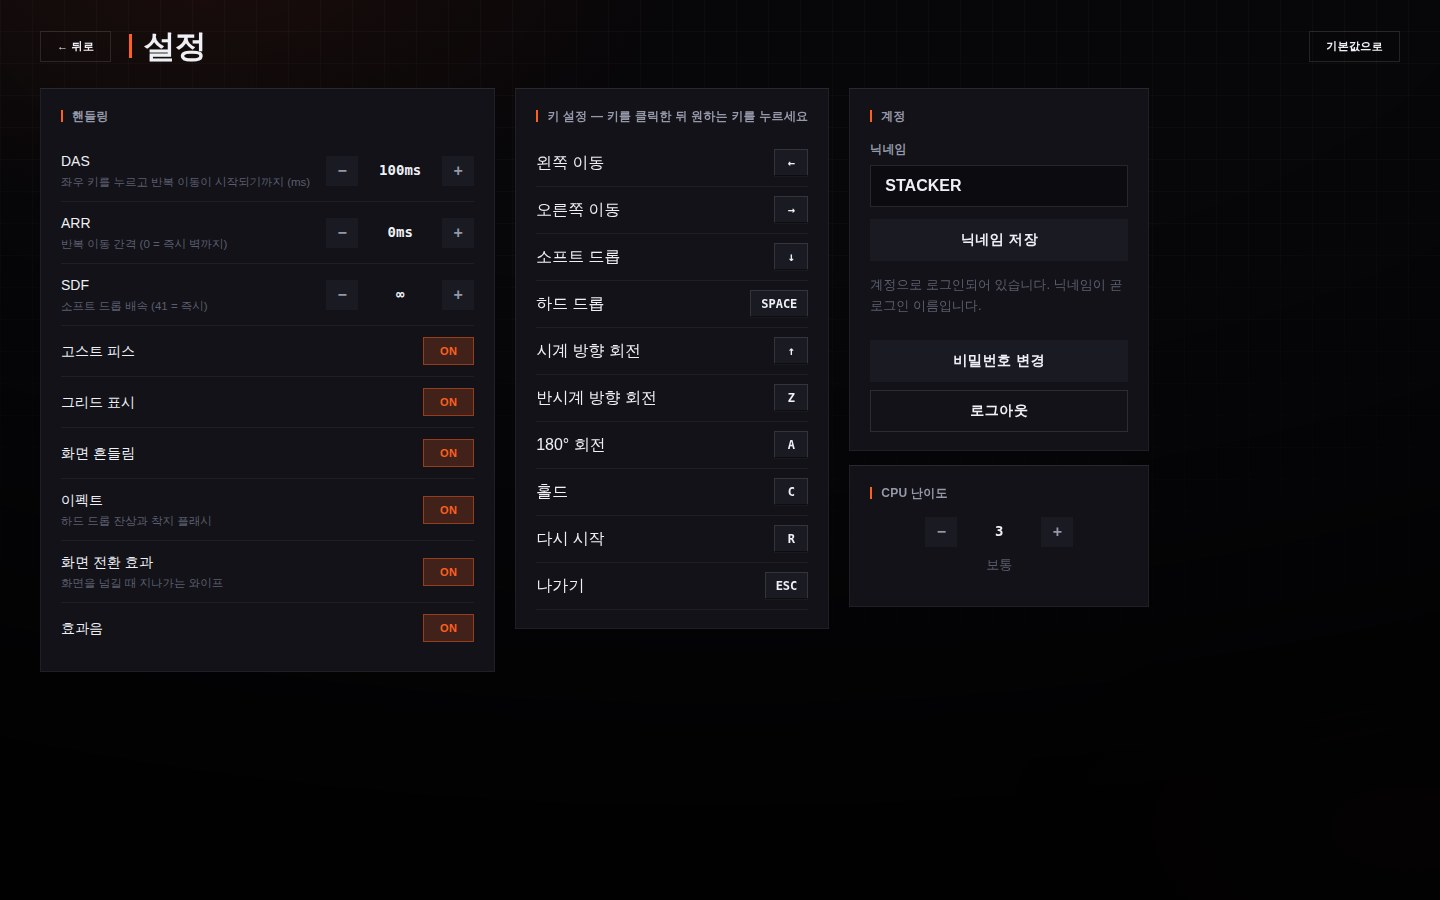
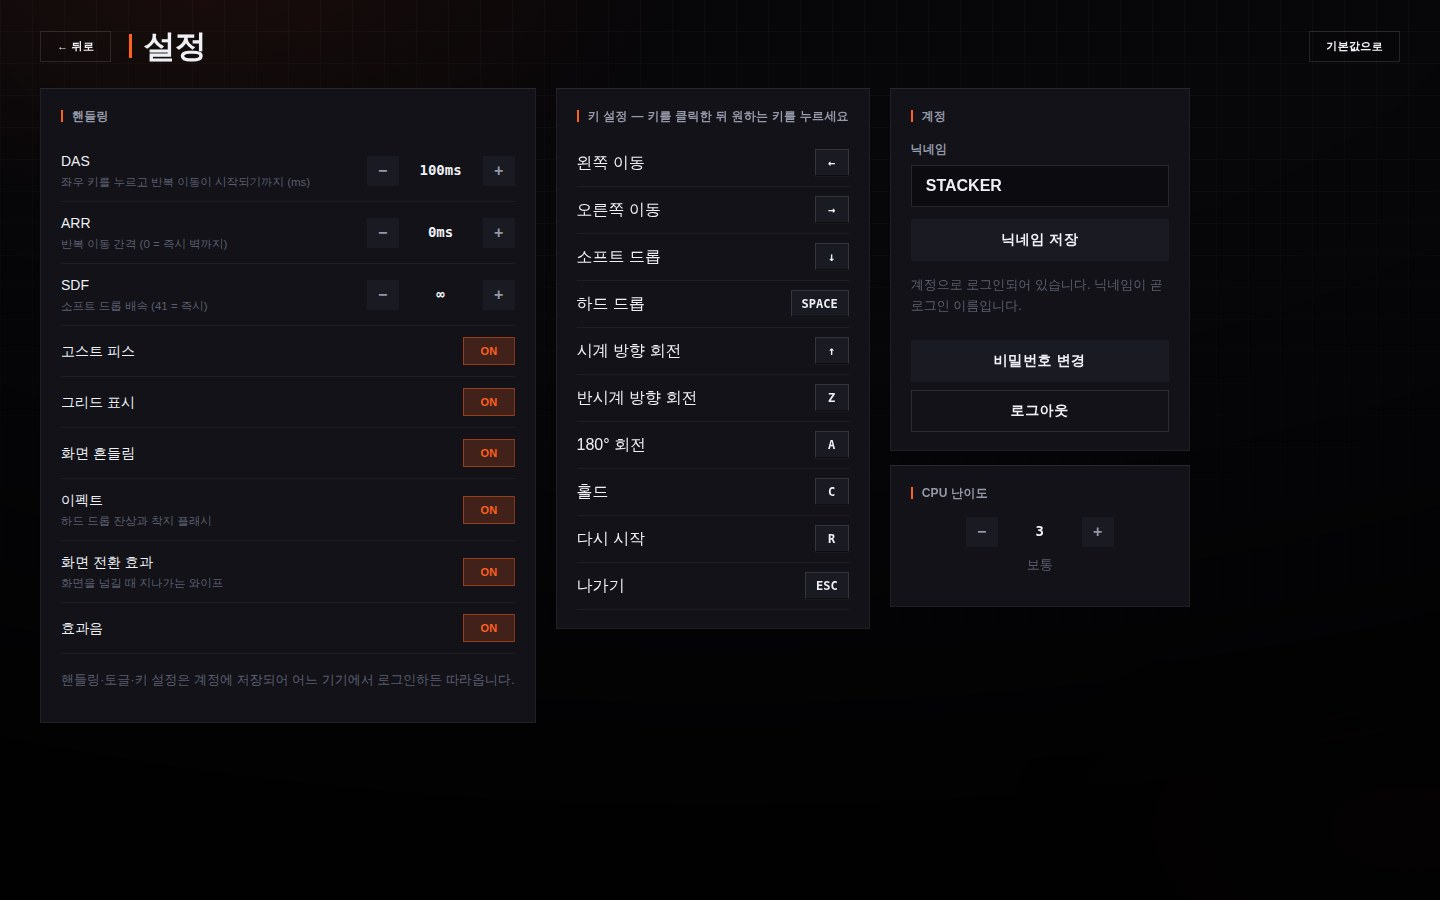
Keep settings on the account instead of in the browser
Handling, toggles and keybinds lived in localStorage and nowhere else, which
made them a property of the browser rather than of the player. A second
device, a cleared cache, a private window or a different profile all meant
setting DAS and ARR from scratch — and now that an account is what you sign
in to, that is the wrong place for them.

They belong to the account. The browser copy stays as the cache in front of
it: every change is written locally at once so the UI never waits, and the
account copy follows about a second later. saveConfig was already the single
choke point every stepper, toggle and rebind went through, so that is the
only place that needed to know. Leaving the settings screen flushes the
debounce rather than waiting it out.

Nothing is trusted on the way in. Scalars are clamped to the same ranges the
UI offers, unknown keys are dropped, and a keybind is kept only if it names
a real action and looks like a KeyboardEvent.code — these values are handed
straight back to the engine, and the column has a size limit. Defaults are
deliberately not repeated on the server: a bind that fails validation is
dropped and the client fills the gap from its own list, so there is exactly
one place that says what the default keys are.

An account that has never saved any reports null rather than defaults, and
the client takes that as "offer up what this browser is already using". That
is what carries a guest's handling through registering, and what stops a
[…]

diff --git a/tests/server.test.js b/tests/server.test.js
@@ -145,6 +145,110 @@ t('a name cannot be registered twice', () => {
   eq(s.rpc('register', { name: 'x', password: 'hunter2!' }).ok, false, 'short name');
 });
 
+section('settings');
+
+const HANDLING = {
+  das: 83, arr: 0, sdf: 41, ghost: false, grid: true, shake: false,
+  effects: true, transitions: false, sound: true, cpuLevel: 5,
+  binds: { left: 'KeyJ', right: 'KeyL', hardDrop: 'Space' }
+};
+
+t('settings are handed back with the next session', () => {
+  const s = makeSandbox();
+  const a = newPlayer(s, 'Alpha');
+  eq(ok(s.rpc('bootstrap', { id: a.id, token: a.token })).settings, null,
+     'a new account should report no settings, not defaults');
+
+  ok(s.rpc('saveSettings', { id: a.id, token: a.token, settings: HANDLING }));
+
+  const back = ok(s.rpc('bootstrap', { id: a.id, token: a.token })).settings;
+  eq(back.das, 83, 'DAS');
+  eq(back.ghost, false, 'a false toggle must survive');
+  eq(back.cpuLevel, 5, 'CPU level');
+  eq(back.binds.left, 'KeyJ', 'rebound key');
+});
+
+t('signing in on another device restores them', () => {
+  const s = makeSandbox();
+  const a = newPlayer(s, 'Alpha', 'correct horse');
+  ok(s.rpc('saveSettings', { id: a.id, token: a.token, settings: HANDLING }));
+  // A different browser: no stored credentials, just the name and password.
+  const fresh = ok(s.rpc('login', { name: 'Alpha', password: 'correct horse' }));
+  eq(fresh.settings.das, 83, 'DAS did not follow the account');
+  eq(fresh.settings.binds.right, 'KeyL', 'keybinds did not follow the account');
+});
+
+t('one account cannot see or set another\'s', () => {
+  const s = makeSandbox();
+  const a = newPlayer(s, 'Alpha'), b = newPlayer(s, 'Bravo');
+  ok(s.rpc('saveSettings', { id: a.id, token: a.token, settings: HANDLING }));
+  eq(ok(s.rpc('bootstrap', { id: b.id, token: b.token })).settings, null, 'leaked into another account');
+  eq(s.rpc('saveSettings', { id: a.id, token: 'forged', settings: HANDLING }).ok, false, 'forged token');
+});
+
+t('values are clamped and unknown keys are dropped', () => {
+  const s = makeSandbox();
+  const a = newPlayer(s, 'Alpha');
+  const kept = ok(s.rpc('saveSettings', {
+    id: a.id, token: a.token,
+    settings: { das: 99999, arr: -40, sdf: 0, cpuLevel: 12, ghost: 'yes', evil: '<script>', binds: {} }
+  })).settings;
+  eq(kept.das, 300, 'DAS clamped to its ceiling');
+  eq(kept.arr, 0, 'ARR clamped to its floor');
+  eq(kept.sdf, 1, 'SDF clamped to its floor');
+  eq(kept.cpuLevel, 5, 'CPU level clamped');
+  eq(kept.ghost, true, 'a truthy string is a true toggle');
+  eq(kept.evil, undefined, 'an unknown key was stored');
+  eq(JSON.stringify(kept.binds), '{}', 'binds');
+});
+
+t('a nonsense keybind is dropped rather than stored', () => {
+  const s = makeSandbox();
+  const a = newPlayer(s, 'Alpha');
+  const kept = ok(s.rpc('saveSettings', {
+    id: a.id, token: a.token,
+    settings: { binds: {
+      left: 'KeyJ',
+      right: 'x'.repeat(400),
+      hold: { nope: true },
+      fly: 'KeyF'
+    } }
+  })).settings;
+  eq(kept.binds.left, 'KeyJ', 'a valid bind should survive');
+  eq(kept.binds.right, undefined, 'an over-long code was stored');
+  eq(kept.binds.hold, undefined, 'a non-string code was stored');
+  eq(kept.binds.fly, undefined, 'an unknown action was stored');
+});
+
+t('garbage in the column reads as no settings, not as an error', () => {
+  const s = makeSandbox();
+  const a = newPlayer(s, 'Alpha');
+  const row = s.Store_readAll('Players')[0];
+  s.Store_writeRow('Players', row._row, Object.assign(row, { settings: '{not json' }));
+  s.__evict('player:');
+  eq(ok(s.rpc('bootstrap', { id: a.id, token: a.token })).settings, null, 'should fall back cleanly');
+});
+
+t('a guest keeps their settings through becoming an account', () => {
+  const s = makeSandbox();
+  const g = newGuest(s);
+  ok(s.rpc('saveSettings', { id: g.id, token: g.token, settings: HANDLING }));
+  ok(s.rpc('setPassword', { id: g.id, token: g.token, name: 'Charlie', password: 'hunter2!' }));
+  const back = ok(s.rpc('login', { name: 'Charlie', password: 'hunter2!' }));
+  eq(back.settings.das, 83, 'handling was lost in the upgrade');
+});
+
+t('an account from before settings existed still signs in', () => {
+  const s = makeSandbox();
+  const a = newPlayer(s, 'Alpha');
+  const row = s.Store_readAll('Players')[0];
+  s.Store_writeRow('Players', row._row, Object.assign(row, { settings: '' }));
+  s.__evict('player:');
+  const session = ok(s.rpc('bootstrap', { id: a.id, token: a.token }));
+  eq(session.authed, true, 'the session broke');
+  eq(session.settings, null, 'an empty column is no settings');
+});
+
 section('guests');
 t('a guest can play, but not ranked', () => {
   const s = makeSandbox();

diff --git a/tests/browser.test.js b/tests/browser.test.js
@@ -652,6 +652,68 @@ const { testAsync: t, assert, eq, section, note, finish } = require('./lib/repor
       () => document.querySelector('#me-sprint').textContent !== '—', null, { timeout: 8000 });
   });
 
+  await t('settings follow the account, not the browser', async () => {
+    // Tune the handling and rebind a key the way a person would.
+    await page.click('#btn-config');
+    await page.waitForSelector('#screen-config.active');
+    for (let i = 0; i < 4; i++) await page.click('[data-handling="das"][data-delta="-5"]');
+    await page.click('[data-toggle="ghost"]');
+    await page.click('[data-bind="hold"] .kbd');
+    await page.keyboard.press('KeyV');
+    await page.waitForTimeout(120);
+    const tuned = await page.evaluate(() => ({
+      das: CONFIG.das, ghost: CONFIG.ghost, hold: CONFIG.binds.hold
+    }));
+    eq(tuned.das, 80, 'DAS did not move');
+    eq(tuned.ghost, false, 'ghost did not toggle off');
+    eq(tuned.hold, 'KeyV', 'hold was not rebound');
+
+    // Leaving the settings screen flushes the debounce.
+    await page.click('#screen-config [data-nav="menu"]');
+    await page.waitForSelector('#screen-menu.active');
+    await page.waitForFunction(() => {
+      const rows = Store_readAll('Players');
+      return rows.some(p => p.name === 'Tester' && /"das":80/.test(String(p.settings)));
+    }, null, { timeout: 8000 });
+
+    // A different browser: sign out, wipe what the device remembers, and
+    // come back with nothing but the name and the password.
+    await page.click('#btn-config');
+    await page.click('#btn-logout');
+    await page.waitForSelector('#screen-auth.active', { timeout: 8000 });
+    await page.evaluate(() => {
+      U.save('config', {});
+      CONFIG.das = 100; CONFIG.ghost = true;
+      CONFIG.binds = Object.assign({}, DEFAULT_BINDS);
+    });
+
+    await page.click('[data-auth-tab="login"]');
+    await page.fill('#auth-name', 'Tester');
+    await page.fill('#auth-pw', 'hunter2!');
+    await page.click('#auth-submit');
+    await page.waitForSelector('#screen-menu.active', { timeout: 10000 });
+
+    const restored = await page.evaluate(() => ({
+      das: CONFIG.das, ghost: CONFIG.ghost, hold: CONFIG.binds.hold,
+      // An action nobody rebound must still come back from the client's own
+      // defaults rather than as undefined.
+      left: CONFIG.binds.left
+    }));
+    eq(restored.das, 80, 'DAS did not come back');
+    eq(restored.ghost, false, 'the toggle did not come back');
+    eq(restored.hold, 'KeyV', 'the rebound key did not come back');
+    eq(restored.left, 'ArrowLeft', 'an untouched bind lost its default');
+
+    // ...and the settings screen shows what was restored, not what the
+    // markup shipped with.
+    await page.click('#btn-config');
+    await page.waitForSelector('#screen-config.active');
+    eq(await page.textContent('#h-das'), '80', 'the DAS readout is stale');
+    eq(await page.textContent('[data-toggle="ghost"]'), 'OFF', 'the ghost toggle is stale');
+    await page.click('#screen-config [data-nav="menu"]');
+    await page.waitForSelector('#screen-menu.active');
+  });
+
   await t('a guest is turned away from ranked and offered an account', async () => {
     await page.click('#btn-config');
     await page.waitForSelector('#screen-config.active');

diff --git a/src/js_app.html b/src/js_app.html
@@ -61,6 +61,9 @@ var App = (function () {
     document.body.classList.toggle('in-game', name === 'game');
     // The board only has a measurable size once its screen is displayed.
     if (name === 'game') U.fitStage();
+    // Leaving the settings screen is the moment to stop waiting out the
+    // debounce and put the account's copy in step.
+    if (previous === 'config' && changed) pushConfig();
     // The wipe reads as a transition, not a flash, so it only runs when the
     // screen actually changed and never on the very first paint.
     if (changed && previous !== 'boot' && CONFIG.transitions) U.replay(U.$('#wipe'), 'run');
@@ -155,8 +158,10 @@ var App = (function () {
     });
   }
 
-  /** Signed in: fill everything the menu shows and go. */
+  /** Signed in: take the account's settings, fill the menu, and go. */
   function enterApp(data) {
+    adoptConfig(data.settings);
+    buildKeybindUI();
     updateProfile(data.profile);
     syncConfigUI();
     showScreen('menu');
@@ -922,6 +927,9 @@ var App = (function () {
       : '계정으로 로그인되어 있습니다. 닉네임이 곧 로그인 이름입니다.';
     U.$('#btn-password').textContent = guest ? '계정 만들기' : '비밀번호 변경';
     U.$('#btn-password').classList.toggle('primary', guest);
+    U.$('#cfg-sync-note').textContent = guest
+      ? '설정은 이 게스트 계정에 저장됩니다. 비밀번호를 등록하면 다른 기기에서도 그대로 이어집니다.'
+      : '핸들링·토글·키 설정은 계정에 저장되어 어느 기기에서 로그인하든 따라옵니다.';
 
     U.$('#h-das').textContent = CONFIG.das;
     U.$('#h-arr').textContent = CONFIG.arr;
@@ -999,7 +1007,7 @@ var App = (function () {
           buildKeybindUI();
         });
       });
-      host.appendChild(U.el('div', { class: 'keybind-row' }, [
+      host.appendChild(U.el('div', { class: 'keybind-row', 'data-bind': action }, [
         U.el('span', { text: Input.labels[action] }), key
       ]));
     });

diff --git a/src/js_input.html b/src/js_input.html
@@ -48,7 +48,46 @@ var CONFIG = Object.assign({
 }, U.load('config', {}));
 CONFIG.binds = Object.assign({}, DEFAULT_BINDS, CONFIG.binds || {});
 
-function saveConfig() { U.save('config', CONFIG); }
+/**
+ * Settings belong to the account, but they have to survive being offline and
+ * they have to feel instant, so the browser copy is written on every change
+ * and the account copy follows a moment later. Every stepper, toggle and
+ * rebind already funnels through here, so this is the only place that needs
+ * to know.
+ */
+var CONFIG_PUSH_MS = 1200;
+var configPushTimer = null;
+
+function saveConfig() {
+  U.save('config', CONFIG);
+  clearTimeout(configPushTimer);
+  configPushTimer = setTimeout(pushConfig, CONFIG_PUSH_MS);
+}
+
+/** Sends the account copy now. Safe to call when nobody is signed in. */
+function pushConfig() {
+  clearTimeout(configPushTimer);
+  configPushTimer = null;
+  if (typeof Net === 'undefined' || !Net.creds()) return;
+  // A failed save is not worth interrupting anybody over: the browser copy
+  // is already written, and the next change tries again.
+  Net.saveSettings(CONFIG).catch(function () {});
+}
+
+/**
+ * Adopts the account's settings, or — for an account that has never saved
+ * any — offers up whatever this browser was already using. That second case
+ * is what carries a guest's handling through registering.
+ */
+function adoptConfig(settings) {
+  if (!settings) { pushConfig(); return; }
+  Object.keys(settings).forEach(function (key) {
+    if (key === 'binds') return;
+    CONFIG[key] = settings[key];
+  });
+  CONFIG.binds = Object.assign({}, DEFAULT_BINDS, settings.binds || {});
+  U.save('config', CONFIG);
+}
 
 var Input = (function () {
   var handler = null;          // set by the game while a match is running

diff --git a/src/js_net.html b/src/js_net.html
@@ -120,6 +120,9 @@ var Net = (function () {
     guest: function () { return call('guest', {}).then(absorb); },
     logout: function () { return call('logout', authed({})).then(function (r) { forget(); return r; }); },
     setPassword: function (payload) { return call('setPassword', authed(payload)); },
+    saveSettings: function (settings) {
+      return call('saveSettings', authed({ settings: settings }));
+    },
     sync: sync,
     resetSyncGate: resetSyncGate,
     serverNow: serverNow,

diff --git a/tests/lib/sources.js b/tests/lib/sources.js
@@ -10,7 +10,7 @@ const SRC = path.join(__dirname, '..', '..', 'src');
 /** Server files, in the order Apps Script would evaluate them. */
 const SERVER_FILES = [
   'Store.gs', 'Glicko.gs', 'Ranks.gs', 'Players.gs', 'Accounts.gs',
-  'Leaderboard.gs', 'Rooms.gs', 'Matchmaking.gs', 'Code.gs'
+  'Settings.gs', 'Leaderboard.gs', 'Rooms.gs', 'Matchmaking.gs', 'Code.gs'
 ];
 
 /** Client files, in the order index.html includes them. */

diff --git a/src/ui.html b/src/ui.html
@@ -417,6 +417,7 @@
           <div class="switch-label">효과음</div>
           <button class="btn sm" data-toggle="sound">ON</button>
         </div>
+        <p class="hint" id="cfg-sync-note" style="margin-top:16px"></p>
       </div>
 
       <div class="panel grow scroll" style="min-height:0">

diff --git a/README.md b/README.md
@@ -35,7 +35,7 @@ Google Apps Script 위에서 도는 멀티플레이 테트리스입니다. TETR.
 | **VS CPU** | 5단계 난이도의 휴리스틱 봇과 1:1 (약 7 APM ~ 38 APM) |
 | **솔로** | 40 LINES(스프린트) · BLITZ(2분 점수) · ZEN(무한) |
 | **랭킹** | TR 래더 · 스프린트 · 블리츠 기록판 |
-| **설정** | DAS / ARR / SDF 핸들링, 키 재설정, 고스트·그리드·화면흔들림·이펙트·효과음 |
+| **설정** | DAS / ARR / SDF 핸들링, 키 재설정, 고스트·그리드·화면흔들림·이펙트·효과음. **계정에 저장되어 어느 기기에서 로그인하든 따라옵니다** |
 | **태블릿** | 소프트 키보드가 올라와도 화면이 잘리지 않고, 창이 짧으면 보드가 잘리는 대신 축소됩니다 |
 
 게임플레이는 SRS 회전과 월킥(180° 회전 포함), 7-bag, 홀드, 고스트 피스,
@@ -355,6 +355,7 @@ src/
   Ranks.gs            백분위 기반 랭크 산정
   Players.gs          프로필, 솔로 기록
   Accounts.gs         가입·로그인·로그아웃, 비밀번호 해시, 게스트
+  Settings.gs         계정별 설정 저장과 범위 검증
   Rooms.gs            방 생애주기, 라운드 상태머신, sync(), 방 영속화
   Matchmaking.gs      랭크 대기열과 페어링
   Leaderboard.gs      래더 및 기록판
@@ -414,9 +415,9 @@ npm run test:fast    # 브라우저 없이 Node 스위트만
 |---|---|---|
 | `engine` | 27 | 7-bag 균등성, SRS 회전 사이클과 벽 충돌, 라인 클리어와 행 압축, T-스핀 코너 규칙과 실제 TSD, 공격 테이블, 가비지 삽입·상쇄·상한·지연, 탑아웃과 Zen, 직렬화, 봇 300피스 완주 |
 | `rating` | 14 | Glickman(2013) 논문 예제 대조 (1464.06 / 151.52 / 0.05999), RD 수렴, 업셋 보상, TR 단조성, **이긴 쪽이 레이팅을 잃지 않음** |
-| `server` | 67 | **가입·로그인·로그아웃, 비밀번호 저장과 시도 제한, 게스트와 계정 전환, 구버전 계정 호환**, 토큰, 매칭 페어링과 밴드 확장, 방 상태머신, 연결 끊김, 공격 릴레이와 로그 상한, FT3 정산 1회성, 재대결 방지·허용, 방 권한과 정원, 백분위 랭크, 관전 입·퇴장과 좌석 전환, 채팅 전달·도배 제한·이스케이프, 규칙 범위 검증, KO 귀속, **캐시가 통째로 날아간 뒤에도 이어지는 경기·방 목록·유휴 방 유지** |
+| `server` | 75 | 가입·로그인·로그아웃, 비밀번호 저장과 시도 제한, 게스트와 계정 전환, 구버전 계정 호환, **계정별 설정 저장·범위 검증·키바인드 검증·손상된 값 폴백**, 토큰, 매칭 페어링과 밴드 확장, 방 상태머신, 연결 끊김, 공격 릴레이와 로그 상한, FT3 정산 1회성, 재대결 방지·허용, 방 권한과 정원, 백분위 랭크, 관전 입·퇴장과 좌석 전환, 채팅 전달·도배 제한·이스케이프, 규칙 범위 검증, KO 귀속, **캐시가 통째로 날아간 뒤에도 이어지는 경기·방 목록·유휴 방 유지** |
 | `template` | 8 | `doGet` 이 만드는 페이지를 HtmlService 와 같은 규칙으로 렌더링해 검사 — 스크립틀릿 잔여물, include 해석과 순서, 모든 `<script>` 블록의 파싱(= `<?= ?>` 이스케이프로 JS가 깨지는 사고 차단), 매니페스트, 클라이언트/서버 RPC 목록 일치 |
-| `browser` | 56 | 실제 Chromium에서 **가입·로그인 실패·로그아웃·게스트→계정 전환** → 40 LINES 완주 → CPU 대전 → 랭킹·설정·키 리바인드 → 방 생성, 규칙 편집기·채팅·타겟팅 4종·이펙트 발생과 소멸·화면 전환 휘도, 한글에 자간이 벌어지지 않는지·[hidden]이 실제로 숨는지·장식 레이어가 클릭을 삼키지 않는지, **소프트 키보드가 올라왔을 때의 가시 영역·입력창 글자 크기·짧은 창에서의 보드 축소**, 무오류 확인 |
+| `browser` | 57 | 실제 Chromium에서 **가입·로그인 실패·로그아웃·게스트→계정 전환** → 40 LINES 완주 → CPU 대전 → 랭킹·설정·키 리바인드 → 방 생성, 규칙 편집기·채팅·타겟팅 4종·이펙트 발생과 소멸·화면 전환 휘도, 한글에 자간이 벌어지지 않는지·[hidden]이 실제로 숨는지·장식 레이어가 클릭을 삼키지 않는지, 소프트 키보드가 올라왔을 때의 가시 영역·입력창 글자 크기·짧은 창에서의 보드 축소, **설정을 바꾸고 로그아웃한 뒤 다른 기기처럼 다시 들어와도 그대로인지**, 무오류 확인 |
 | `online` | 26 | 탭 **세 개**가 공유 백엔드로 실제 대전: 시드 일치, 가비지 전달, 라운드 판정, 경기 전체 통계, TR 정산, **관전자가 두 보드를 보고 채팅에 참여** |
 
 배포 없이 대전을 확인하고 싶다면 `node tests/serve.js` 를 띄우고 출력된
